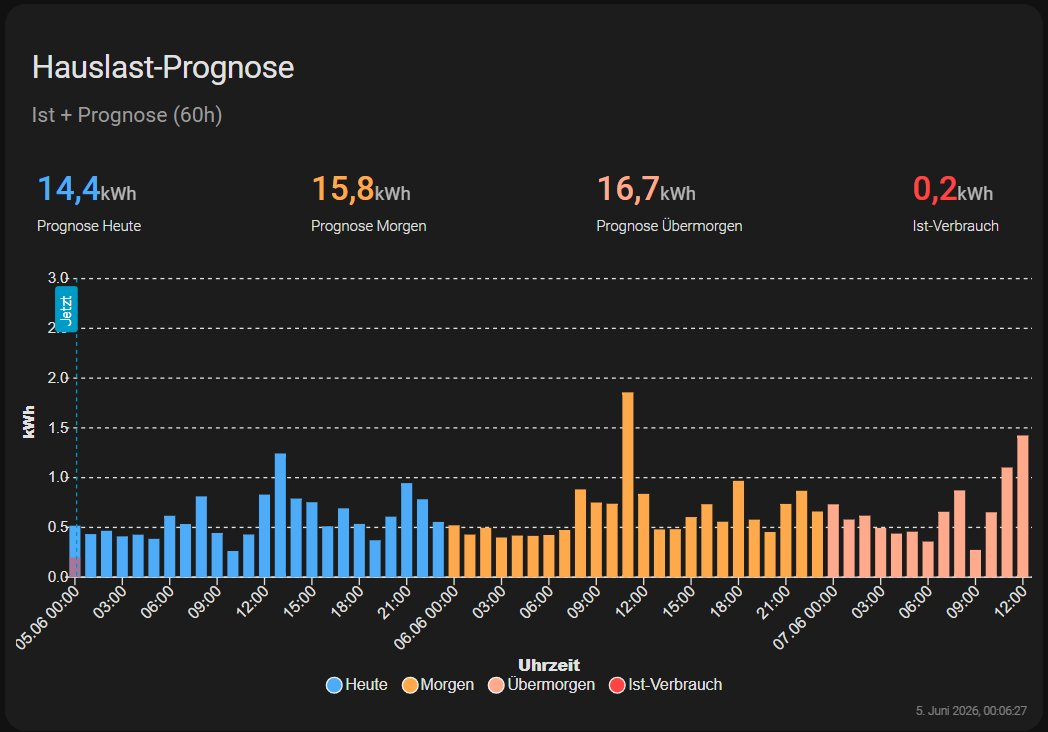
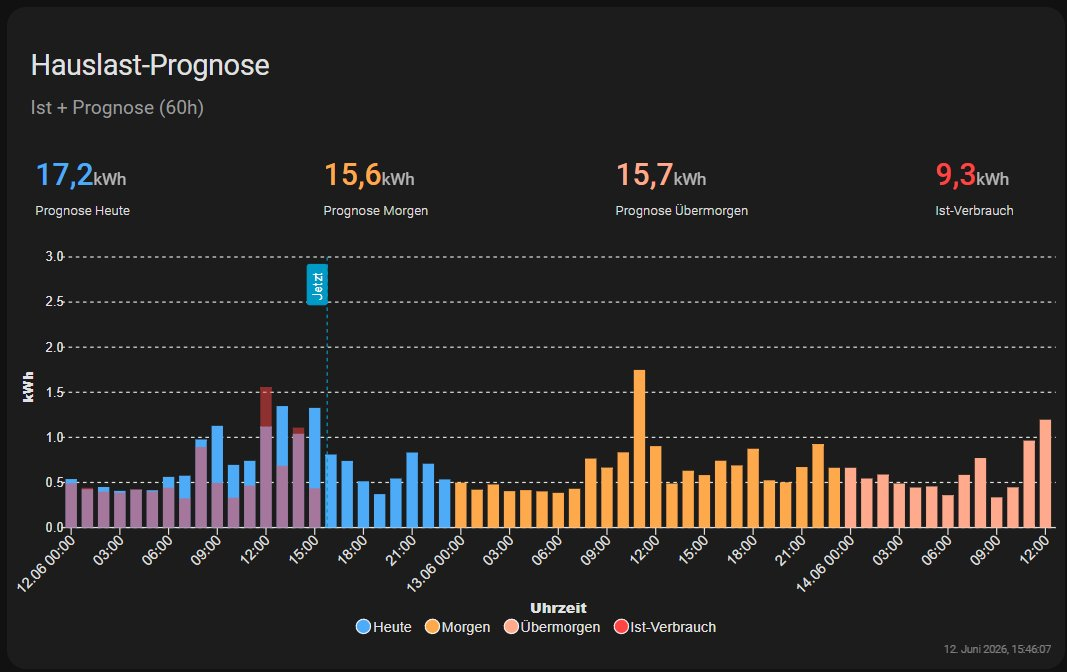
Add files via upload

diff --git a/custom_components/houseload_forecast/sensor.py b/custom_components/houseload_forecast/sensor.py
@@ -15,7 +15,7 @@ from homeassistant.config_entries import ConfigEntry
 from homeassistant.const import EntityCategory
 from homeassistant.core import HomeAssistant, callback
 from homeassistant.helpers.entity_platform import AddEntitiesCallback
-from homeassistant.helpers.event import async_track_state_change_event
+from homeassistant.helpers.event import async_track_state_change_event, async_track_time_interval
 from homeassistant.helpers.restore_state import RestoreEntity
 from homeassistant.util import dt as dt_util
 
@@ -39,6 +39,7 @@ from .const import (
     FALLBACK_WT_KEYS,
     FALLBACK_WE_KEYS,
     GENERATED_HAUSLAST_SENSOR_ID,
+    GENERATED_HAUSLAST_DAILY_ID,
 )
 
 _LOGGER = logging.getLogger(__name__)
@@ -118,9 +119,11 @@ async def async_setup_entry(
 
     # NEU v1.1.2: Verbrauchszähler-Sensor (aus aktueller Leistung abgeleitet)
     hauslast_stundlich_sensor = HauslastStundlichSensor(entry)
+    hauslast_taeglich_sensor = HauslastTaeglichSensor(entry)
 
     sensors = [
         hauslast_stundlich_sensor,
+        hauslast_taeglich_sensor,
         HauslastFallbackSensor(coordinator, "wochentag", entry),
         HauslastFallbackSensor(coordinator, "wochenende", entry),
         HauslastPrognoseHeuteSensor(coordinator, entry),
@@ -162,20 +165,42 @@ async def async_setup_entry(
     ]
     watch_forecast = [e for e in watch_forecast if e]
 
+    # Debounce: Forecast-Neuberechnung max. alle 5 s nach letztem State-Change
+    # Verhindert vielfachen _compute()-Aufruf wenn AlphaESS mehrere Sensoren
+    # gleichzeitig aktualisiert.
+    _debounce_handle: list = [None]
+
     @callback
     def _state_changed(event):
+        if _debounce_handle[0] is not None:
+            _debounce_handle[0].cancel()
+        _debounce_handle[0] = hass.loop.call_later(5.0, _trigger_refresh)
+
+    def _trigger_refresh():
+        _debounce_handle[0] = None
         coordinator.async_update_all()
 
     entry.async_on_unload(
         async_track_state_change_event(hass, watch_forecast, _state_changed)
     )
 
-    # Leistungssensor → Verbrauchszähler akkumulieren
+    # 30-Sekunden-Interval: Prognose und Restlaufzeit werden regelmaessig
+    # aktualisiert, auch ohne eingehende State-Changes (z.B. nachts)
+    entry.async_on_unload(
+        async_track_time_interval(
+            hass,
+            lambda _: coordinator.async_update_all(),
+            timedelta(seconds=30),
+        )
+    )
+
+    # Leistungssensor -> Verbrauchszaehler akkumulieren (event-getrieben, kein Debounce)
     aktuell_entity = cfg.get(CONF_HAUSLAST_AKTUELL)
     if aktuell_entity:
         @callback
         def _aktuell_changed(event):
             hauslast_stundlich_sensor.handle_power_update(hass, aktuell_entity)
+            hauslast_taeglich_sensor.handle_power_update(hass, aktuell_entity)
 
         entry.async_on_unload(
             async_track_state_change_event(hass, [aktuell_entity], _aktuell_changed)
@@ -1097,7 +1122,12 @@ class HauslastStundlichSensor(SensorEntity, RestoreEntity):
 
     @property
     def native_value(self) -> float:
-        return round(self._total_kwh, 4)
+        """State = Verbrauch der aktuell laufenden Stunde (current_hour_kwh).
+        Der absolute Zählerstand ist im Attribut 'total_kwh' abrufbar.
+        """
+        if self._hour_start_kwh is not None:
+            return round(self._total_kwh - self._hour_start_kwh, 4)
+        return 0.0
 
     @property
     def extra_state_attributes(self) -> dict:
@@ -1109,6 +1139,7 @@ class HauslastStundlichSensor(SensorEntity, RestoreEntity):
             "hourly_history": self._hourly_history[-24:],
             "current_hour_kwh": current_hour_kwh,
             "last_period": last_period,
+            "total_kwh": round(self._total_kwh, 4),
         }
 
     async def async_added_to_hass(self) -> None:
@@ -1190,6 +1221,141 @@ class HauslastStundlichSensor(SensorEntity, RestoreEntity):
             try:
                 power_w = float(state.state)
                 self._last_power_w = max(power_w, 0.0)  # negative Werte ignorieren
+            except (ValueError, TypeError):
+                self._last_power_w = None
+        else:
+            self._last_power_w = None
+
+        self._last_update = now
+        self.async_write_ha_state()
+
+
+# ── HauslastTaeglichSensor ─────────────────────────────────────────────────────
+# NEU v1.1.2: Täglicher Verbrauchszähler – wird parallel zum stündlichen Sensor
+# aus demselben Leistungssensor akkumuliert. State = Verbrauch des laufenden Tages
+# (kWh). TOTAL_INCREASING für den HA-Recorder, tägliche Differenzen im Dashboard.
+
+class HauslastTaeglichSensor(SensorEntity, RestoreEntity):
+    """Täglicher Hauslast-Verbrauchszähler (kWh, stetig steigend, TOTAL_INCREASING).
+
+    State = Verbrauch des aktuell laufenden Tages (ab 00:00 Uhr).
+    Der absolute Gesamtzähler ist im Attribut 'total_kwh' verfügbar.
+    entity_id ist fix: sensor.hlf_hauslast_taglich.
+    """
+
+    _attr_has_entity_name = False
+    _attr_name = "Hauslast täglich"
+    _attr_native_unit_of_measurement = "kWh"
+    _attr_device_class = SensorDeviceClass.ENERGY
+    _attr_state_class = SensorStateClass.TOTAL_INCREASING
+    _attr_icon = "mdi:home-lightning-bolt-outline"
+    _attr_should_poll = False
+
+    def __init__(self, entry: ConfigEntry) -> None:
+        self._entry = entry
+        self._attr_unique_id = f"{DOMAIN}_hauslast_taeglich_{entry.entry_id}"
+        self.entity_id = GENERATED_HAUSLAST_DAILY_ID
+        self._total_kwh: float = 0.0
+        self._last_update: datetime | None = None
+        self._last_power_w: float | None = None
+        # Zählerstand zu Beginn des aktuellen Tages
+        self._day_start_kwh: float | None = None
+        self._day_start_ts: datetime | None = None
+        # Verlauf der letzten 14 abgeschlossenen Tage
+        self._daily_history: list[dict] = []
+
+    @property
+    def device_info(self):
+        return {
+            "identifiers": {(DOMAIN, self._entry.entry_id)},
+            "name": "House Load Forecast",
+            "manufacturer": "Custom",
+            "model": "House Load Forecast & PV Battery Runtime",
+        }
+
+    @property
+    def native_value(self) -> float:
+        """State = Verbrauch des aktuell laufenden Tages (ab 00:00 Uhr)."""
+        if self._day_start_kwh is not None:
+            return round(self._total_kwh - self._day_start_kwh, 4)
+        return 0.0
+
+    @property
+    def extra_state_attributes(self) -> dict:
+        today_kwh = None
+        if self._day_start_kwh is not None:
+            today_kwh = round(self._total_kwh - self._day_start_kwh, 4)
+        yesterday_kwh = self._daily_history[-1]["kwh"] if self._daily_history else None
+        return {
+            "daily_history": self._daily_history[-14:],
+            "today_kwh": today_kwh,
+            "yesterday_kwh": yesterday_kwh,
+            "total_kwh": round(self._total_kwh, 4),
+        }
+
+    async def async_added_to_hass(self) -> None:
+        """Letzten gespeicherten Zählerstand wiederherstellen."""
+        await super().async_added_to_hass()
+        last_state = await self.async_get_last_state()
+        if last_state and last_state.state not in ("unknown", "unavailable", None):
+            try:
+                # State war der Tagesverbrauch, nicht der Gesamtzähler →
+                # total_kwh aus Attribut laden
+                attrs = last_state.attributes or {}
+                if "total_kwh" in attrs:
+                    self._total_kwh = float(attrs["total_kwh"])
+                if "daily_history" in attrs and isinstance(attrs["daily_history"], list):
+                    self._daily_history = attrs["daily_history"][-14:]
+                _LOGGER.debug(
+                    "HauslastTaeglichSensor: Zählerstand wiederhergestellt: %.4f kWh",
+                    self._total_kwh,
+                )
+            except (ValueError, TypeError):
+                self._total_kwh = 0.0
+        self.async_write_ha_state()
+
+    def _maybe_close_day(self, now: datetime) -> None:
+        """Prüft ob ein neuer Tag begonnen hat und schließt den alten ab."""
+        if self._day_start_ts is None:
+            self._day_start_kwh = self._total_kwh
+            self._day_start_ts = now.replace(hour=0, minute=0, second=0, microsecond=0)
+            return
+
+        current_day = now.replace(hour=0, minute=0, second=0, microsecond=0)
+        if current_day > self._day_start_ts:
+            kwh_today = round(self._total_kwh - self._day_start_kwh, 4)
+            if kwh_today >= 0:
+                self._daily_history.append({
+                    "day": self._day_start_ts.strftime("%Y-%m-%d"),
+                    "kwh": kwh_today,
+                })
+                if len(self._daily_history) > 14:
+                    self._daily_history = self._daily_history[-14:]
+                _LOGGER.debug(
+                    "HauslastTaeglichSensor: Tag %s abgeschlossen → %.4f kWh",
+                    self._day_start_ts.strftime("%Y-%m-%d"), kwh_today,
+                )
+            self._day_start_kwh = self._total_kwh
+            self._day_start_ts = current_day
+
+    @callback
+    def handle_power_update(self, hass, power_entity_id: str) -> None:
+        """Leistungswert (W) auslesen und Tageszähler akkumulieren (Riemann links)."""
+        now = dt_util.now()
+
+        if self._last_update is not None and self._last_power_w is not None:
+            delta_h = (now - self._last_update).total_seconds() / 3600.0
+            if 0 < delta_h <= 2.0:
+                delta_kwh = self._last_power_w * delta_h / 1000.0
+                if delta_kwh > 0:
+                    self._total_kwh += delta_kwh
+
+        self._maybe_close_day(now)
+
+        state = hass.states.get(power_entity_id)
+        if state and state.state not in ("unknown", "unavailable", ""):
+            try:
+                self._last_power_w = max(float(state.state), 0.0)
             except (ValueError, TypeError):
                 self._last_power_w = None
         else:

diff --git a/custom_components/houseload_forecast/const.py b/custom_components/houseload_forecast/const.py
@@ -37,3 +37,4 @@ FALLBACK_WE_KEYS = [f"fallback_we_{h:02d}" for h in range(24)]
 
 # Interne Entity-ID des von der Integration erzeugten stündlichen Verbrauchszählers
 GENERATED_HAUSLAST_SENSOR_ID = "sensor.hlf_hauslast_stundlich"
+GENERATED_HAUSLAST_DAILY_ID   = "sensor.hlf_hauslast_taglich"

diff --git a/README.md b/README.md
@@ -366,7 +366,7 @@ Zeigt die stündliche Prognose für heute (blau), morgen (orange) und übermorge
 - **Heute (blau):** Alle 24 Stunden des heutigen Tages aus `sensor.hlf_forecast_today`
 - **Morgen (orange):** Alle 24 Stunden des morgigen Tages aus `sensor.hlf_forecast_tomorrow`
 - **Übermorgen (lachs):** Stunden des übernächsten Tages aus `sensor.hlf_forecast_day_after_tomorrow`
-- **Ist-Verbrauch (rot):** Tatsächlicher stündlicher Verbrauch aus `sensor.hauslast_stundlich`
+- **Ist-Verbrauch (rot):** Tatsächlicher stündlicher Verbrauch aus `sensor.hlf_hauslast_stundlich` (intern von der Integration erzeugt)
 
 ![Hauslast-Prognose Dashboard](docs/images/screenshot_hauslast_prognose.png)
 
@@ -503,7 +503,7 @@ series:
     show:
       in_chart: false
       in_header: true
-  - entity: sensor.hauslast_taglich
+  - entity: sensor.hlf_hauslast_taglich
     name: Ist-Verbrauch
     color: "#ff4444"
     unit: kWh
@@ -511,7 +511,7 @@ series:
     show:
       in_chart: false
       in_header: true
-  - entity: sensor.hauslast_stundlich
+  - entity: sensor.hlf_hauslast_stundlich
     name: Ist-Verbrauch
     type: column
     color: "#ff4444"
@@ -521,9 +521,8 @@ series:
       legend_value: false
       in_header: false
     group_by:
-      func: last
+      func: diff
       duration: 1h
-    extend_to: now
 grid_options:
   columns: full
 card_mod:
@@ -534,7 +533,7 @@ card_mod:
     }
 ```
 
-> **Hinweis:** `sensor.hauslast_taglich` und `sensor.hauslast_stundlich` durch deine eigenen Sensor-Namen ersetzen. Den `max`-Wert der Y-Achse (`3`) ggf. an deinen typischen Verbrauch anpassen.
+> **Hinweis:** Den `max`-Wert der Y-Achse (`3`) ggf. an deinen typischen stündlichen Verbrauch anpassen.
 
 </details>
 ---

diff --git a/README.en.md b/README.en.md
@@ -366,7 +366,7 @@ Shows the hourly forecast for today (blue), tomorrow (orange) and the day after 
 - **Today (blue):** All 24 hours of today from `sensor.hlf_forecast_today`
 - **Tomorrow (orange):** All 24 hours of tomorrow from `sensor.hlf_forecast_tomorrow`
 - **Day after tomorrow (salmon):** Hours from `sensor.hlf_forecast_day_after_tomorrow`
-- **Actual consumption (red):** Real hourly consumption from `sensor.hauslast_stundlich`
+- **Actual consumption (red):** Real hourly consumption from `sensor.hlf_hauslast_stundlich` (generated internally by the integration)
 
 ![House Load Forecast Dashboard](docs/images/screenshot_houseload_forecast.png)
 
@@ -503,7 +503,7 @@ series:
     show:
       in_chart: false
       in_header: true
-  - entity: sensor.hauslast_taglich
+  - entity: sensor.hlf_hauslast_taglich
     name: Actual consumption
     color: "#ff4444"
     unit: kWh
@@ -511,7 +511,7 @@ series:
     show:
       in_chart: false
       in_header: true
-  - entity: sensor.hauslast_stundlich
+  - entity: sensor.hlf_hauslast_stundlich
     name: Actual consumption
     type: column
     color: "#ff4444"
@@ -521,9 +521,8 @@ series:
       legend_value: false
       in_header: false
     group_by:
-      func: last
+      func: diff
       duration: 1h
-    extend_to: now
 grid_options:
   columns: full
 card_mod:
@@ -534,7 +533,7 @@ card_mod:
     }
 ```
 
-> **Note:** Replace `sensor.hauslast_taglich` and `sensor.hauslast_stundlich` with your own sensor names. Adjust the `max` Y-axis value (`3`) to match your typical consumption.
+> **Note:** Adjust the `max` Y-axis value (`3`) to match your typical hourly consumption.
 
 </details>
 ---
